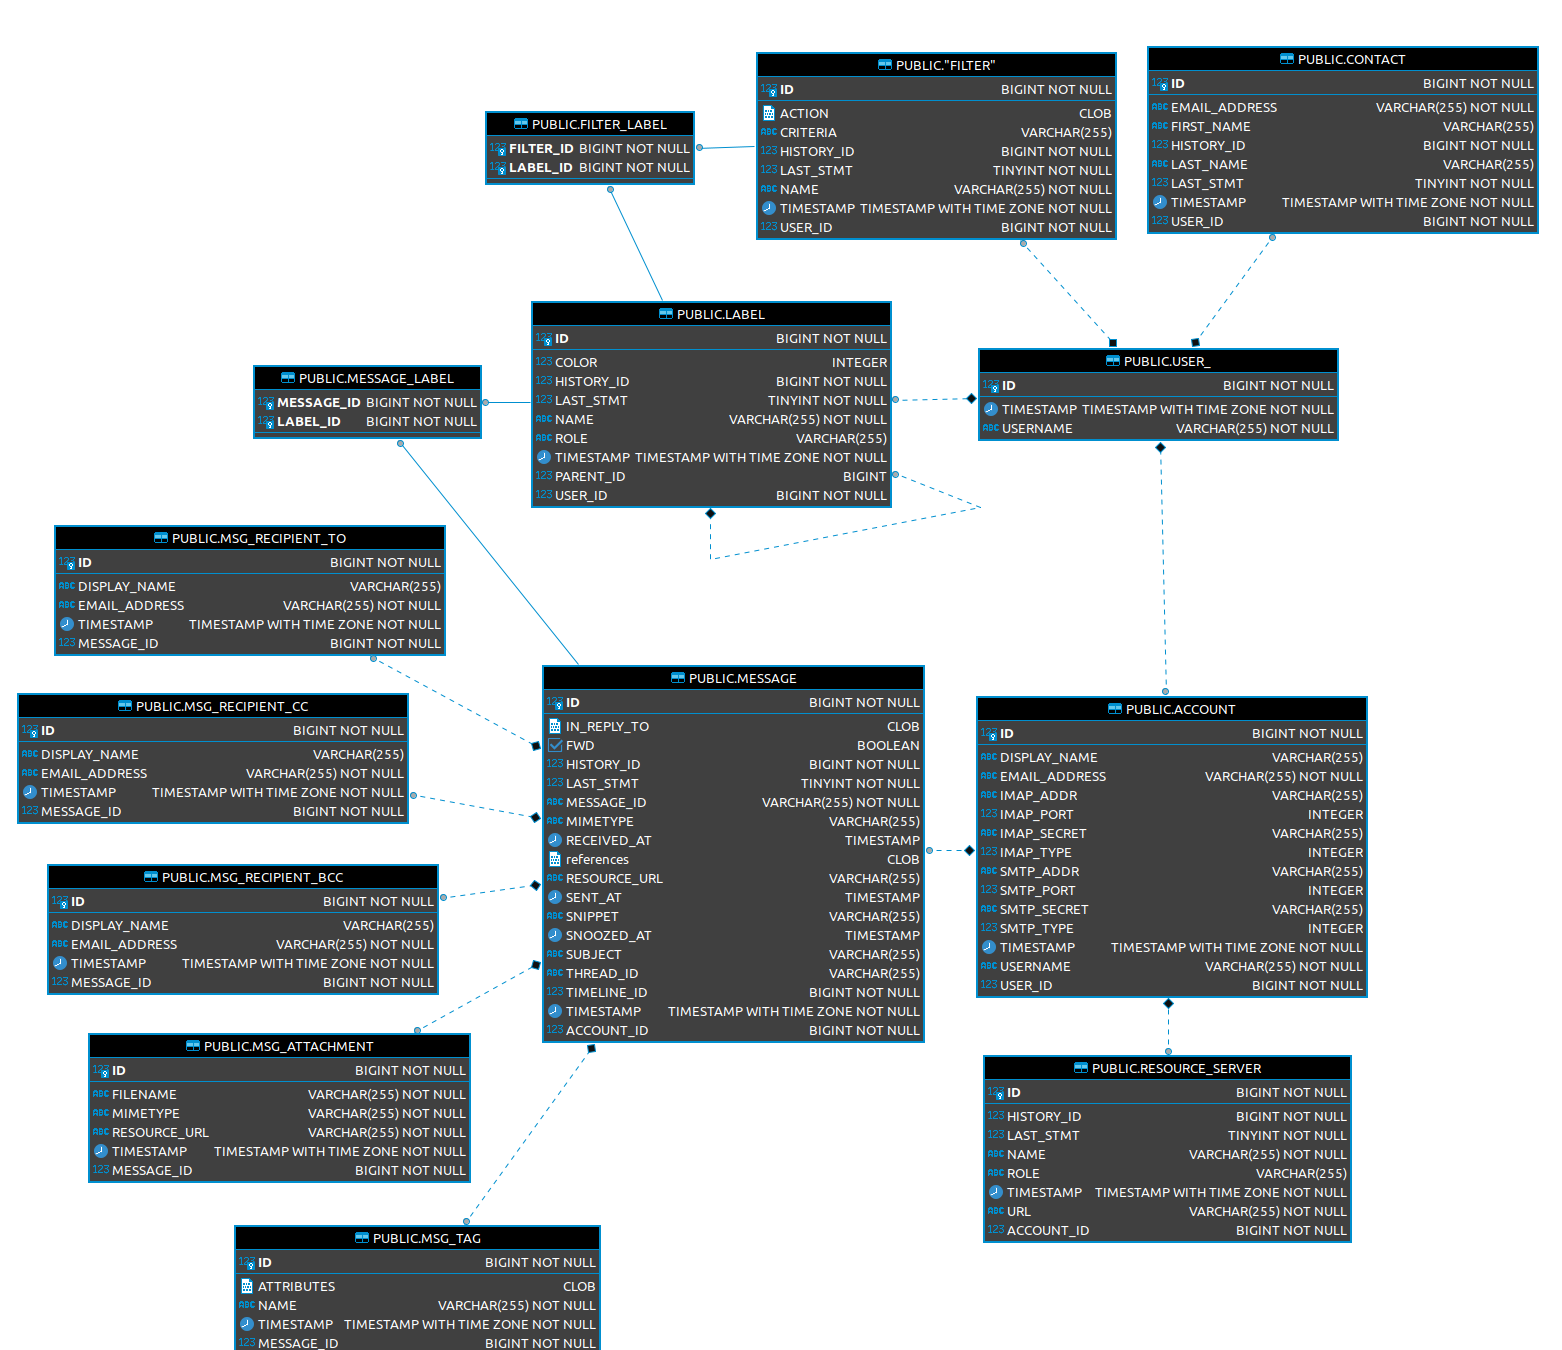
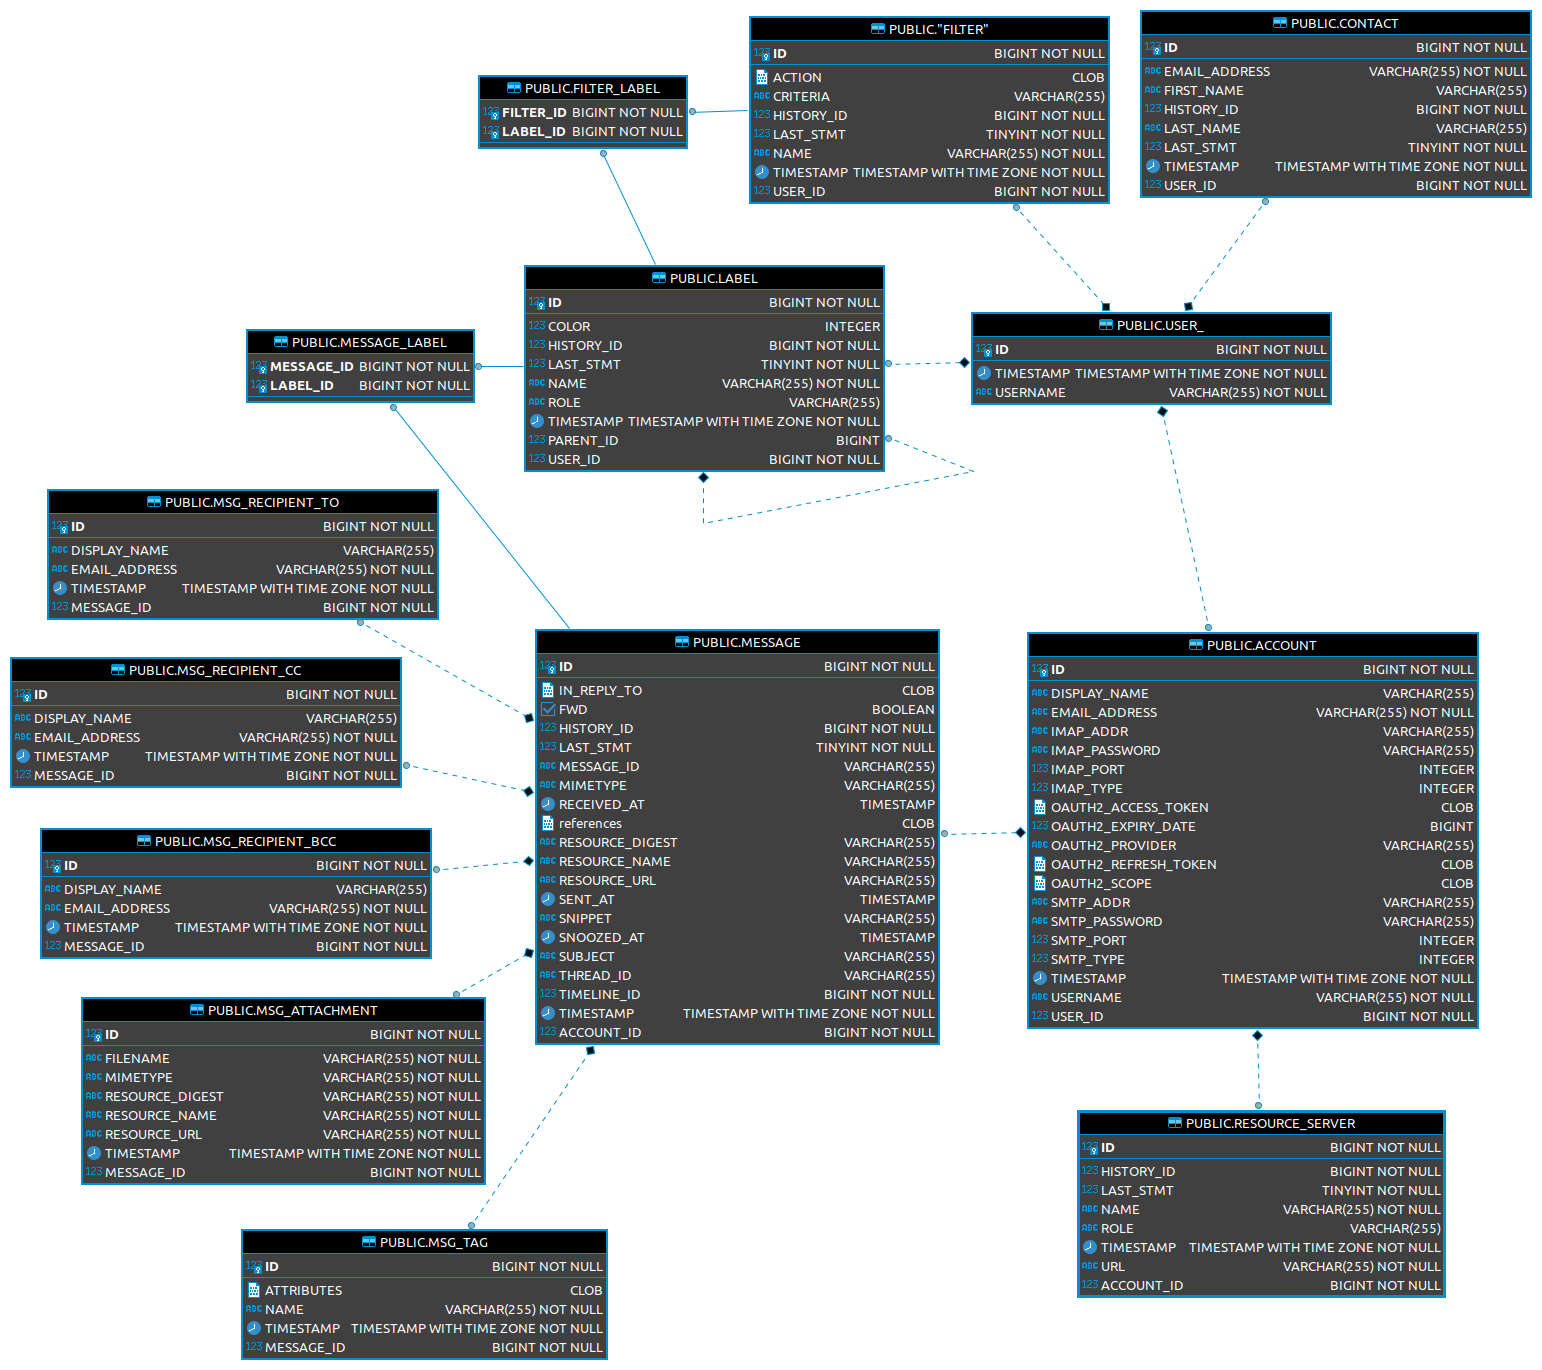
resource digest

diff --git a/src/main/java/org/acme/emailservice/rest/AttachmentApi.java b/src/main/java/org/acme/emailservice/rest/AttachmentApi.java
@@ -4,8 +4,10 @@ import java.io.File;
 import java.io.FileOutputStream;
 import java.io.IOException;
 import java.io.InputStream;
+import java.security.DigestOutputStream;
+import java.security.MessageDigest;
+import java.security.NoSuchAlgorithmException;
 import java.security.PublicKey;
-import java.util.ArrayList;
 import java.util.List;
 import java.util.Map;
 import java.util.UUID;
@@ -31,6 +33,7 @@ import javax.ws.rs.core.Response;
 import javax.ws.rs.core.Response.ResponseBuilder;
 import javax.ws.rs.core.Response.Status;
 
+import org.acme.emailservice.model.ResourceFile;
 import org.eclipse.microprofile.config.inject.ConfigProperty;
 import org.eclipse.microprofile.jwt.JsonWebToken;
 import org.jboss.logging.Logger;
@@ -38,6 +41,7 @@ import org.jboss.resteasy.annotations.providers.multipart.MultipartForm;
 import org.jboss.resteasy.plugins.providers.multipart.InputPart;
 import org.jboss.resteasy.plugins.providers.multipart.MultipartFormDataInput;
 import org.jose4j.jwk.HttpsJwks;
+import org.keycloak.common.util.Base64Url;
 
 import io.smallrye.jwt.auth.principal.JWTParser;
 
@@ -57,18 +61,6 @@ public class AttachmentApi {
     @Inject
     @ConfigProperty(name = "oidc.jwt.verify.issuer")
     String oidcIssuer;
-
-    public class ResourceFile {
-        public List<String> resourceName;
-
-        public ResourceFile() {
-            this.resourceName = new ArrayList<>();
-        }
-
-        public void addFilename(String resourceName) {
-            this.resourceName.add(resourceName);
-        }
-    }
 
     private final String UPLOADED_FILE_PATH = ""; // an message attachment draft folder
 
@@ -169,7 +161,7 @@ public class AttachmentApi {
     @Path("/upload")
     @Consumes({ MediaType.MULTIPART_FORM_DATA })
     @Produces(MediaType.APPLICATION_JSON)
-    public Response uploadFile(@MultipartForm MultipartFormDataInput input) throws IOException {
+    public Response uploadFile(@MultipartForm MultipartFormDataInput input) throws IOException, NoSuchAlgorithmException {
 
         ResourceFile resourceFile = new ResourceFile();
 
@@ -185,7 +177,6 @@ public class AttachmentApi {
 
             try {
                 String resourceName = UUID.randomUUID().toString();
-                resourceFile.addFilename(resourceName);
 
                 MultivaluedMap<String, String> header = fileInputPart.getHeaders();
                 String fileName = getFileName(header);
@@ -197,8 +188,9 @@ public class AttachmentApi {
                 // constructs upload file path
                 resourceName = UPLOADED_FILE_PATH + resourceName;
 
-                writeToResourceFile(inputStream, resourceName);
+                String resourceDigest = writeToResourceFile(inputStream, resourceName);
 
+                resourceFile.addResource(resourceName, resourceDigest);
             } catch (IOException e) {
                 e.printStackTrace();
             }
@@ -224,7 +216,7 @@ public class AttachmentApi {
         return "unknown";
     }
 
-    private void writeToResourceFile(InputStream content, String resourceName) {
+    private String writeToResourceFile(InputStream content, String resourceName) throws NoSuchAlgorithmException {
 
         int read = 0;
         byte[] bytes = new byte[1024];
@@ -236,15 +228,25 @@ public class AttachmentApi {
                 file.createNewFile();
             }
 
-            FileOutputStream out = new FileOutputStream(file);
+            MessageDigest md = MessageDigest.getInstance("SHA-256");
+            FileOutputStream fos = new FileOutputStream(file);
+            DigestOutputStream  dos = new DigestOutputStream(fos, md);
+
             while ((read = content.read(bytes)) != -1) {
-                out.write(bytes, 0, read);
+                md.update((byte) read);
+                dos.write(bytes, 0, read);
             }
 
-            out.flush();
-            out.close();
+            dos.flush();
+            dos.close();
+
+            String resourceDigest = Base64Url.encode(dos.getMessageDigest().digest());
+
+            return resourceDigest;
+
         } catch (IOException e) {
             e.printStackTrace();
         }
+        return null;
     }
 }

diff --git a/src/main/java/org/acme/emailservice/rest/MessageApi.java b/src/main/java/org/acme/emailservice/rest/MessageApi.java
@@ -4,6 +4,8 @@ import java.io.File;
 import java.io.FileOutputStream;
 import java.io.IOException;
 import java.io.InputStream;
+import java.security.MessageDigest;
+import java.security.NoSuchAlgorithmException;
 import java.util.List;
 import java.util.Map;
 import java.util.UUID;
@@ -23,9 +25,11 @@ import javax.ws.rs.core.Request;
 import javax.ws.rs.core.Response;
 import javax.ws.rs.core.Response.Status;
 
+import org.acme.emailservice.model.ResourceFile;
 import org.apache.commons.io.IOUtils;
 import org.jboss.resteasy.plugins.providers.multipart.InputPart;
 import org.jboss.resteasy.plugins.providers.multipart.MultipartFormDataInput;
+import org.keycloak.common.util.Base64Url;
 
 // Resource server path
 @Path("/rs")
@@ -35,19 +39,13 @@ public class MessageApi {
     protected @Context Request request;
     private final String MESSAGES_FILE_PATH = ""; // a message draft folder
 
-    public class ResourceFile {
-        public String resourceName;
-
-        public ResourceFile(String resourceName) {
-            this.resourceName = resourceName;
-        }
-    }
-
     @POST @PUT
     @Path("/message")
     @Consumes({ MediaType.MULTIPART_FORM_DATA })
     @Produces(MediaType.APPLICATION_JSON)
-    public Response uploadFile(MultipartFormDataInput input) throws IOException {
+    public Response uploadFile(MultipartFormDataInput input) throws IOException, NoSuchAlgorithmException {
+
+        ResourceFile resourceFile = new ResourceFile();
 
         String resourceName = null;
         
@@ -68,15 +66,17 @@ public class MessageApi {
             resourceName = UUID.randomUUID().toString();
         }
 
-        ResourceFile resourceFile = new ResourceFile(resourceName);
-
         if (resourceName != null && resourceName.length() > 0) {
             try {
                 InputStream inputStream = messageParts.get(0).getBody(InputStream.class, null);
                 byte[] bytes = IOUtils.toByteArray(inputStream);
 
+                // constructs upload file path
                 resourceName = MESSAGES_FILE_PATH + resourceName;
-                writeToResourceFile(bytes, resourceName);
+
+                String resourceDigest = writeToResourceFile(bytes, resourceName);
+
+                resourceFile.addResource(resourceName, resourceDigest);
 
                 long messageId = messageTextId == null ? 0 : parseToInt(messageTextId, 0);
 
@@ -116,7 +116,7 @@ public class MessageApi {
         }
     }
 
-    private void writeToResourceFile(byte[] content, String resourceName) throws IOException {
+    private String writeToResourceFile(byte[] content, String resourceName) throws IOException, NoSuchAlgorithmException {
 
         try {
             File file = new File(resourceName);
@@ -125,15 +125,20 @@ public class MessageApi {
                 file.createNewFile();
             }
 
+            MessageDigest md = MessageDigest.getInstance("SHA-256");
             FileOutputStream out = new FileOutputStream(file);
 
             out.write(content);
             out.flush();
             out.close();
 
+            String resourceDigest = Base64Url.encode(md.digest(content));
+
+            return resourceDigest;
         } catch (IOException e) {
             e.printStackTrace();
         }
+        return null;
     }
 
 }

diff --git a/src/main/java/org/acme/emailservice/model/Attachment.java b/src/main/java/org/acme/emailservice/model/Attachment.java
@@ -36,9 +36,11 @@ public class Attachment {
     @Column(nullable = false)
     private String mimetype;
 
-    @JsonbTransient
-    @Column(nullable = true)
-    private String resourceId;
+    @Column(nullable = false)
+    private String resourceName;
+
+    @Column(nullable = false)
+    private String resourceDigest;
 
     @Column(nullable = false)
     private String resourceUrl;
@@ -75,12 +77,20 @@ public class Attachment {
         this.mimetype = mimetype;
     }
 
-    public String getResourceId() {
-        return resourceId;
+    public String getResourceName() {
+        return resourceName;
     }
 
-    public void setResourceId(String resourceId) {
-        this.resourceId = resourceId;
+    public void setResourceName(String resourceName) {
+        this.resourceName = resourceName;
+    }
+
+    public String getResourceDigest() {
+        return resourceDigest;
+    }
+
+    public void setResourceDigest(String resourceDigest) {
+        this.resourceDigest = resourceDigest;
     }
 
     public String getResourceUrl() {

diff --git a/src/main/java/org/acme/emailservice/model/Message.java b/src/main/java/org/acme/emailservice/model/Message.java
@@ -72,9 +72,11 @@ public class Message {
     @Column(nullable = true)
     private String snippet;
 
-    @JsonbTransient
     @Column(nullable = true)
-    private String resourceId;
+    private String resourceName;
+
+    @Column(nullable = true)
+    private String resourceDigest;
 
     @Column(nullable = true)
     private String resourceUrl;
@@ -258,12 +260,20 @@ public class Message {
         this.mimetype = mimetype;
     }
 
-    public String getResourceId() {
-        return resourceId;
+    public String getResourceName() {
+        return resourceName;
     }
 
-    public void setResourceId(String resourceId) {
-        this.resourceId = resourceId;
+    public String getResourceDigest() {
+        return resourceDigest;
+    }
+
+    public void setResourceDigest(String resourceDigest) {
+        this.resourceDigest = resourceDigest;
+    }
+
+    public void setResourceName(String resourceName) {
+        this.resourceName = resourceName;
     }
 
     public String getResourceUrl() {

diff --git a/src/main/java/org/acme/emailservice/service/MessageService.java b/src/main/java/org/acme/emailservice/service/MessageService.java
@@ -81,7 +81,6 @@ public class MessageService {
                 .getResultList();
     }
 
-    // TODO: User/Role for message, labels, ...
     @Transactional
     public Message createMessage(String username, Account account, Message message) throws EmailServiceException {
         User user = em.createNamedQuery("User.getUserByUsername", User.class).setParameter("username", username)
@@ -141,7 +140,6 @@ public class MessageService {
         return newMessage;
     }
 
-    // TODO: User/Role for message, labels, ...
     @Transactional
     public Message updateMessage(String username, Message message, boolean send) throws EmailServiceException {
         if (message.getId() == null) {

diff --git a/src/main/java/org/acme/emailservice/model/ResourceFile.java b/src/main/java/org/acme/emailservice/model/ResourceFile.java
@@ -1,0 +1,20 @@
+package org.acme.emailservice.model;
+
+public class ResourceFile {
+
+    private String resourceName;
+    private String resourceDigest;
+
+    public String getResourceName() {
+        return resourceName;
+    }
+
+    public String getResourceDigest() {
+        return resourceDigest;
+    }
+
+    public void addResource(String resourceName, String resourceDigest) {
+        this.resourceName = resourceName;
+        this.resourceDigest = resourceDigest;
+    }
+}
